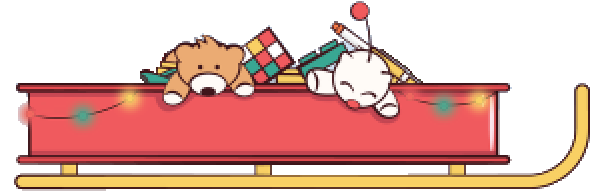
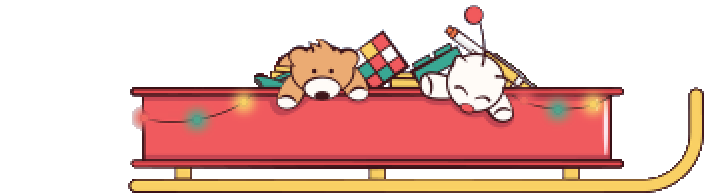
Sled picture size format

diff --git a/src/index.css b/src/index.css
@@ -117,8 +117,7 @@
     background-repeat: no-repeat;
     background-position: bottom;
     background-size: contain;
-    height: 250px;
-    scale: 1;
+    height: 195px;
     width: auto;
 }
 
